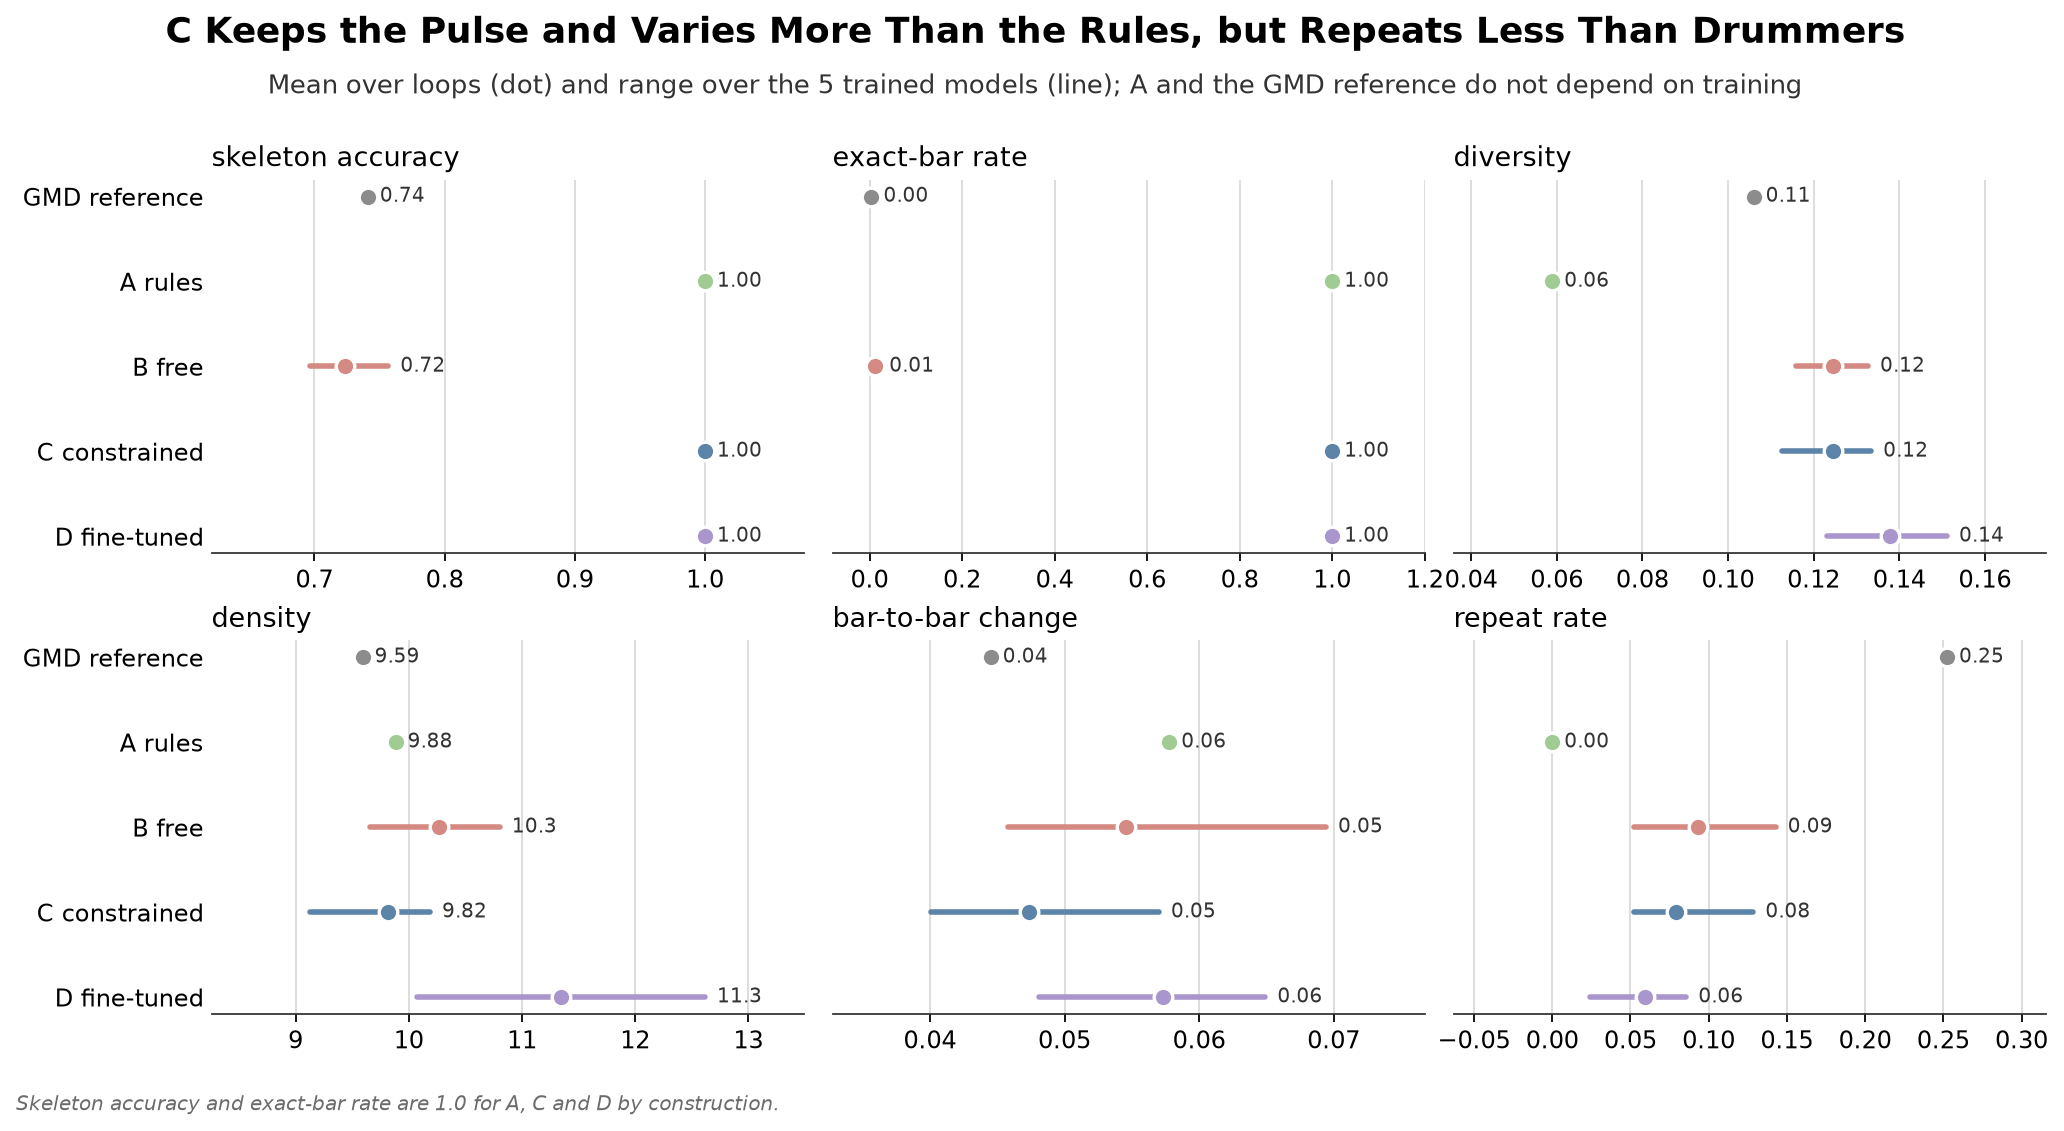
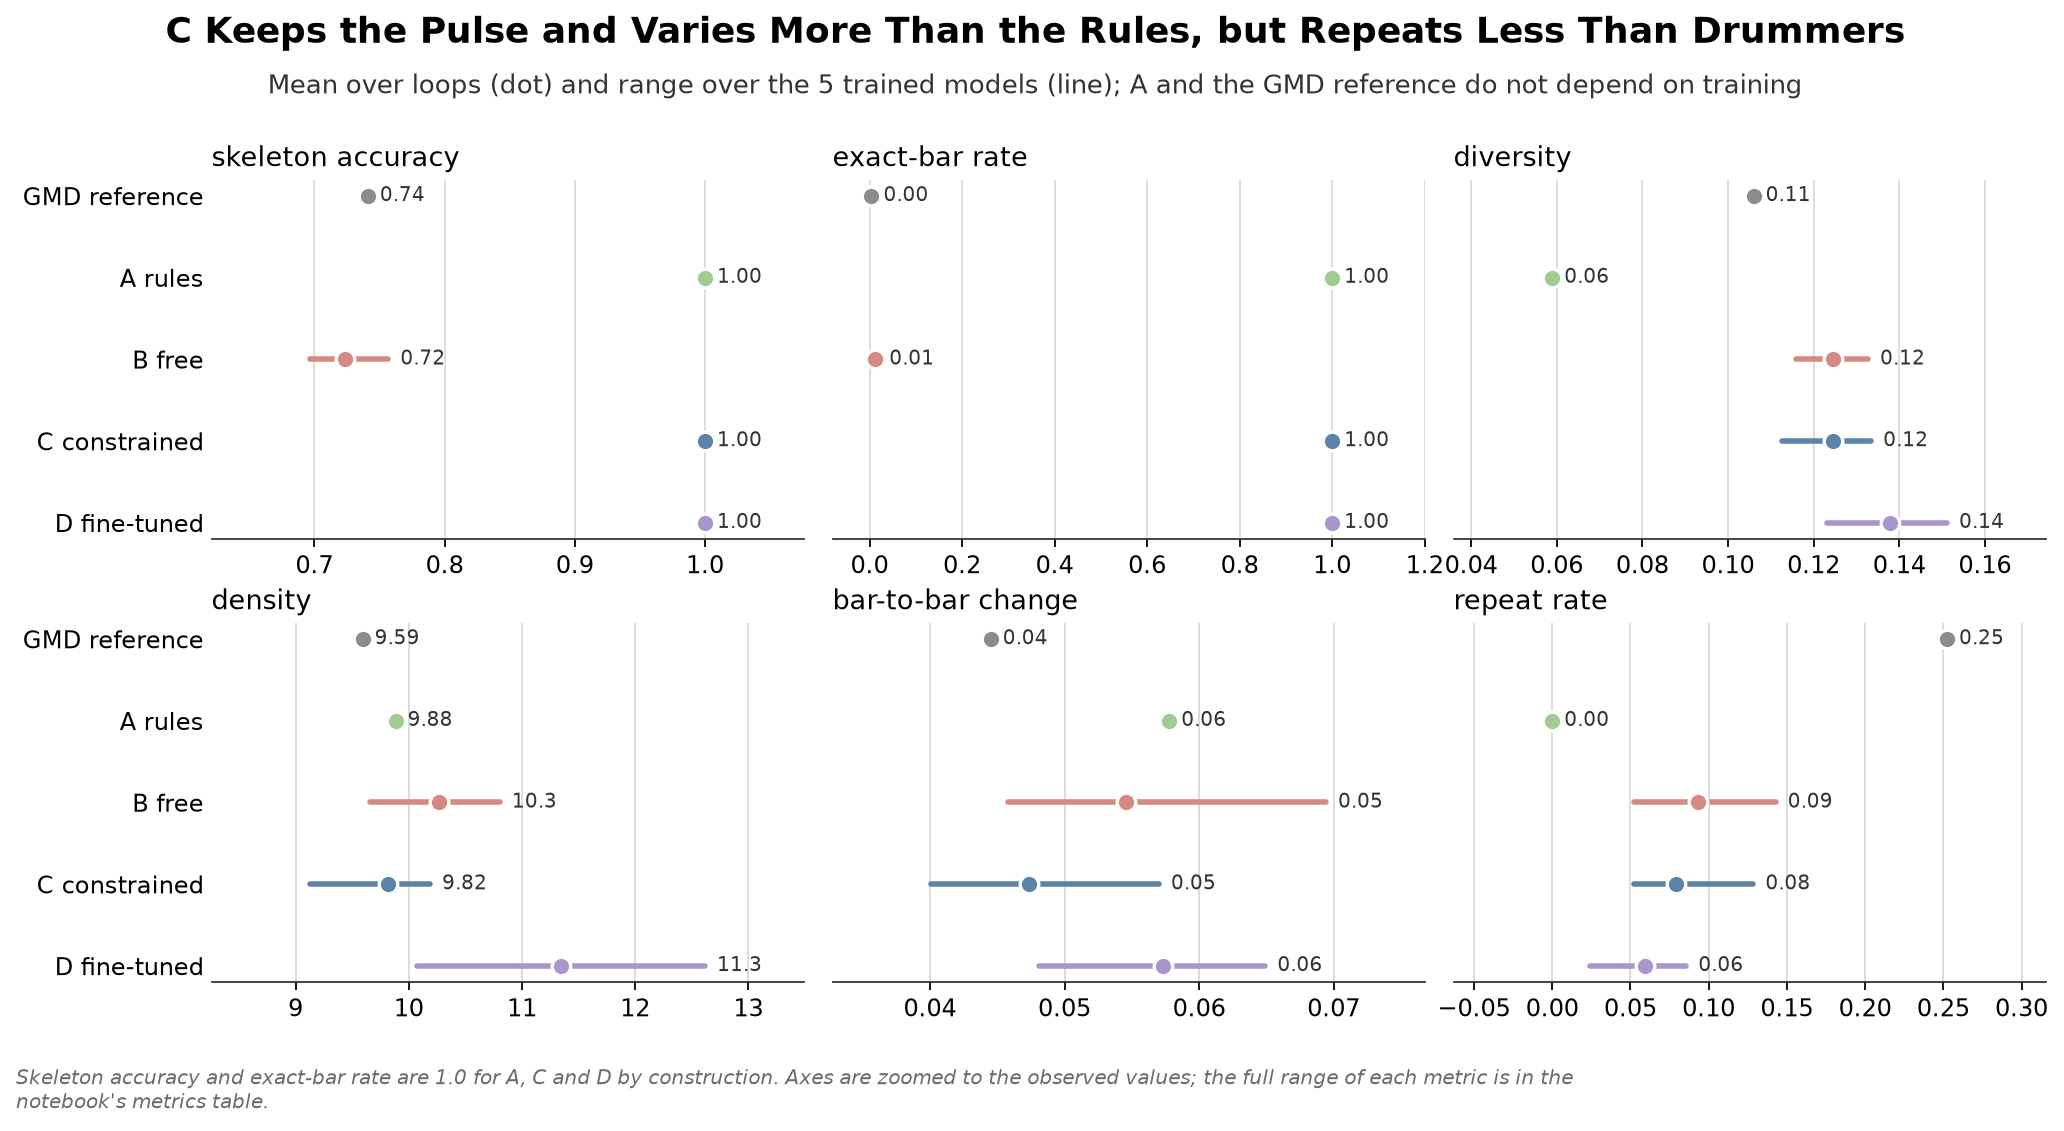
Note zoomed axes on results figure

diff --git a/src/plots.py b/src/plots.py
@@ -108,7 +108,8 @@ def plot_results(summary, metrics: list[str], title: str) -> plt.Figure:
         _style_hbar_axis(ax)
     decorate(fig, title,
              subtitle="Mean over loops (dot) and range over the 5 trained models (line); A and the GMD reference do not depend on training",
-             footnote_text="Skeleton accuracy and exact-bar rate are 1.0 for A, C and D by construction.")
+             footnote_text="Skeleton accuracy and exact-bar rate are 1.0 for A, C and D by construction. Axes are zoomed to "
+                           "the observed values; the full range of each metric is in the notebook's metrics table.")
     return fig
 
 
